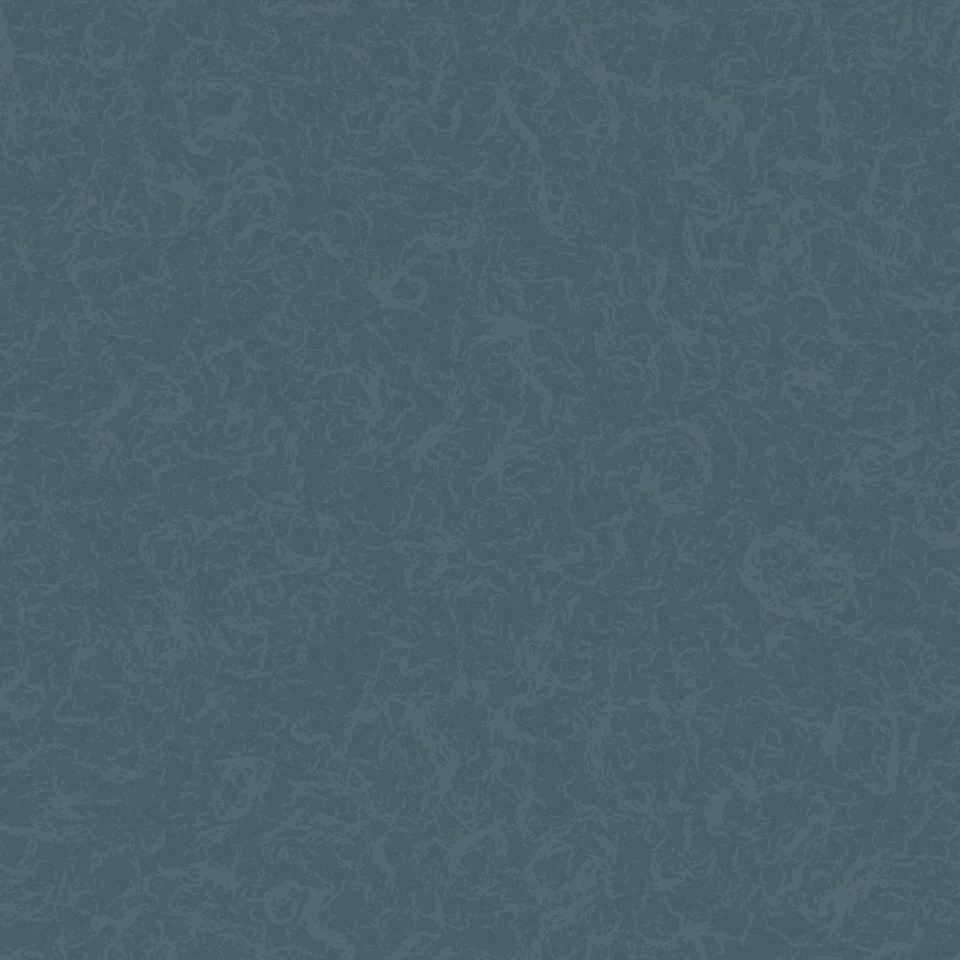
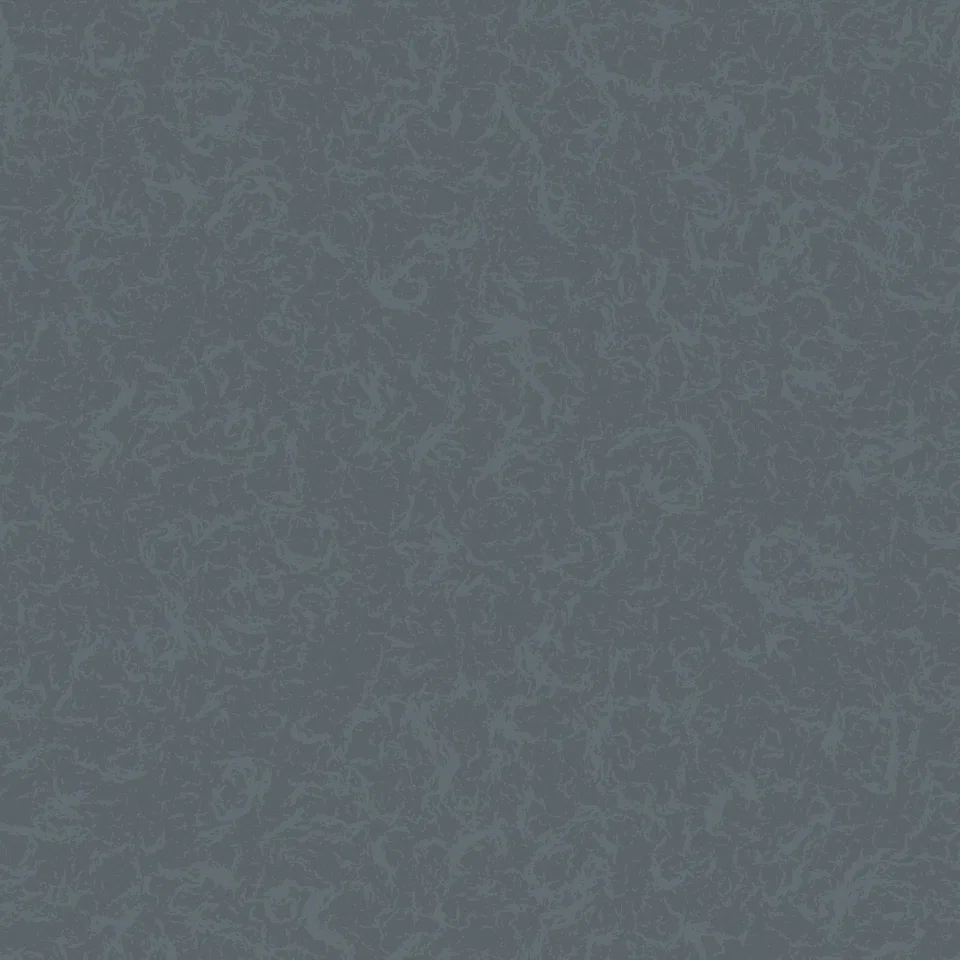
Desaturated color of site background

diff --git a/src/sass/_variables.scss b/src/sass/_variables.scss
@@ -1,6 +1,6 @@
 @use "sass:math";
 @function divide($dividend, $divisor) {
-	@return math.div($dividend, $divisor)
+	@return math.div($dividend, $divisor);
 }
 
 // COLORS
@@ -27,15 +27,15 @@ $color-mana-hybrid: desaturate(lighten($color-rarity-gold, 12.5%), 16.67%);
 
 $color-link: saturate(lighten($color-mythic-orange, 8.33%), 16.67%);
 $color-link-focus: saturate($color-mythic-lighter, 25%);
-$color-content-bg: darken(desaturate($color-mythic-complement, 68.75%), 12.5%);
+$color-content-bg: darken(desaturate($color-mythic-complement, 79.17%), 8.33%);
 $color-group-bg: desaturate(darken($color-mythic-complement, 37.5%), 66.67%);
 $color-text: lighten($color-group-bg, 66.67%);
 $color-text-brighter: lighten($color-text, 6.25%);
 $color-button-default: lighten(desaturate($color-mythic-complement, 62.5%), 6.25%);
 $color-input-bg: desaturate(lighten($color-mythic-complement, 33.33%), 62.5%);
 $color-hover-bg: lighten($color-group-bg, 6.25%);
-$color-section-border: desaturate(lighten($color-group-bg, 25%), 6.25%);
-$color-section-border-alt: desaturate(lighten($color-mythic-very-dim, 25%), 6.25%);
+$color-section-border: $color-content-bg;
+$color-section-border-alt: desaturate(lighten($color-mythic-very-dim, 20%), 6.25%);
 $color-heading-bg: darken($color-content-bg, 16.67%);
 
 $color-frame-land: desaturate(lighten($color-mythic-lighter, 20%), 80%);
